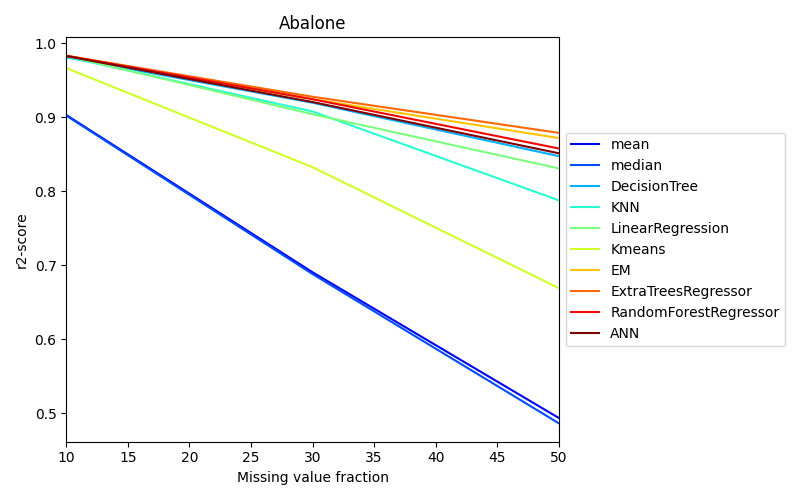
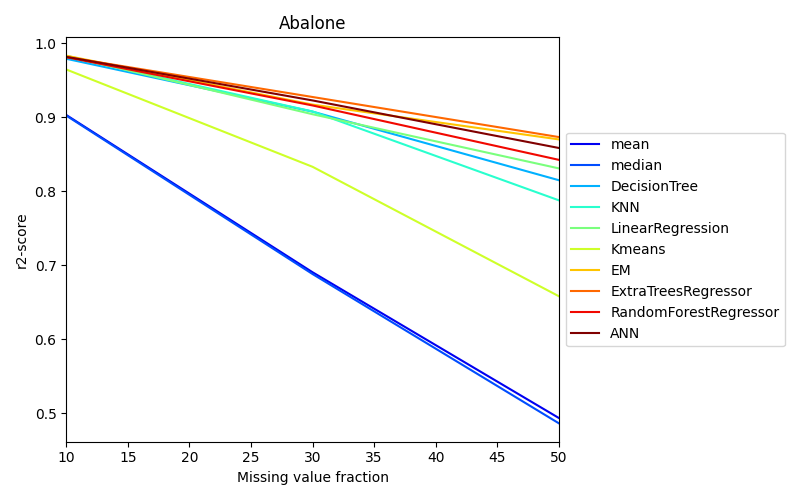
Replacing RMSE with R2

diff --git a/utils.py b/utils.py
@@ -6,8 +6,8 @@ from sklearn.impute import IterativeImputer
 from sklearn.impute import KNNImputer
 from sklearn.mixture import GaussianMixture
 from sklearn.cluster import KMeans
-from sklearn.metrics import r2_score
 from sklearn.base import BaseEstimator, TransformerMixin
+from sklearn.metrics import mean_squared_error
 import warnings
 
 warnings.filterwarnings("ignore")
@@ -35,7 +35,7 @@ class CustomImputer(BaseEstimator, TransformerMixin):
         return imputer.fit_transform(x)
 
     def score(self, x, y_true):
-        return r2_score(y_true, self.transform(x))
+        return -mean_squared_error(y_true, self.transform(x))
 
 
 def em_imputer(data, num_iters=3):
@@ -78,7 +78,7 @@ class EM(BaseEstimator, TransformerMixin):
         return df_filled
 
     def score(self, x, y_true):
-        return r2_score(y_true, self.transform(x))
+        return -mean_squared_error(y_true, self.transform(x))
 
 
 def kmeans_missing(dataset, n_clusters=5):
@@ -113,7 +113,7 @@ class Kmeans(BaseEstimator, TransformerMixin):
         return df_filled
 
     def score(self, x, y_true):
-        return r2_score(y_true, self.transform(x))
+        return -mean_squared_error(y_true, self.transform(x))
 
 
 class KNN(BaseEstimator, TransformerMixin):
@@ -140,4 +140,4 @@ class KNN(BaseEstimator, TransformerMixin):
         return pd.DataFrame(imputer.transform(x))
 
     def score(self, x, y_true):
-        return r2_score(y_true, self.transform(x))
+        return -mean_squared_error(y_true, self.transform(x))

diff --git a/main.py b/main.py
@@ -67,7 +67,7 @@ def main_func(dataset, dataset_name):
 
 
 # Чтение данных
-abalone = pd.read_csv('abalone.data', header=None)
+abalone = pd.read_csv('https://archive.ics.uci.edu/ml/machine-learning-databases/abalone/abalone.data', header=None)
 abalone = abalone.iloc[:, :-1]
 boston, _ = datasets.load_boston(return_X_y=True)
 boston = pd.DataFrame(boston)
